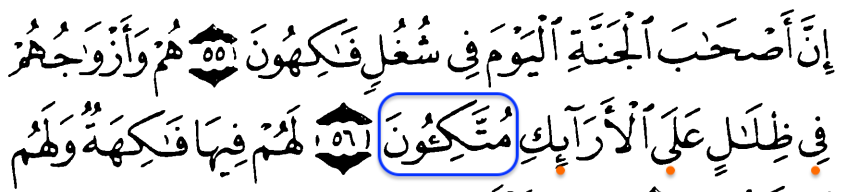
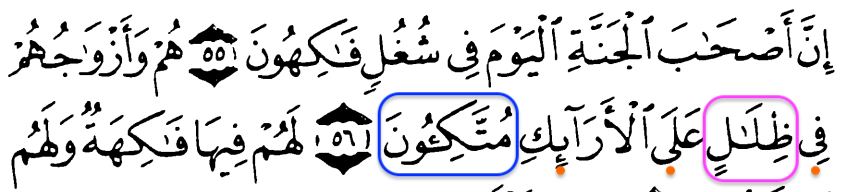
Fix ZILAL, VEZILALUHUM, ZILALUHU, ZILALA, ZILALUHA words with the help of 36:56

Changed region(s): [[0.8318, 0.4688, 0.955, 0.9688]]

diff --git a/docs/STEPS.md b/docs/STEPS.md
@@ -11689,3 +11689,21 @@
 
 ---
 ---
+
+460. ZILAL, VEZILALUHUM, ZILALUHU, ZILALA, ZILALUHA
+```
+وظلالهم -> وظللهم
+ظلاله -> ظلله
+ظلالا -> ظللا
+ظلال -> ظلل
+ظلالها -> ظللها
+```
+* 36:56, 13:15, 16:48, 16:81, 76:14
+
+<>
+* 77:41
+---
+![36:56](../pictures/36-56.png)
+
+---
+---
